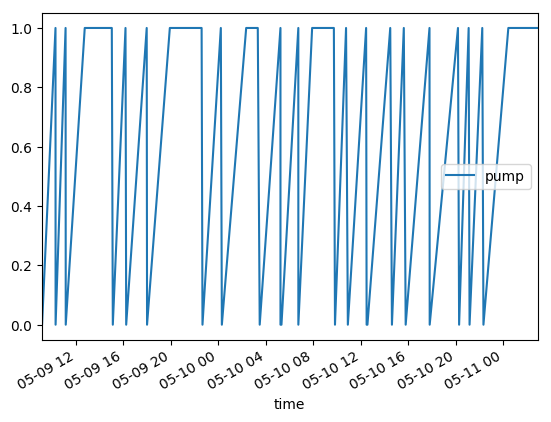
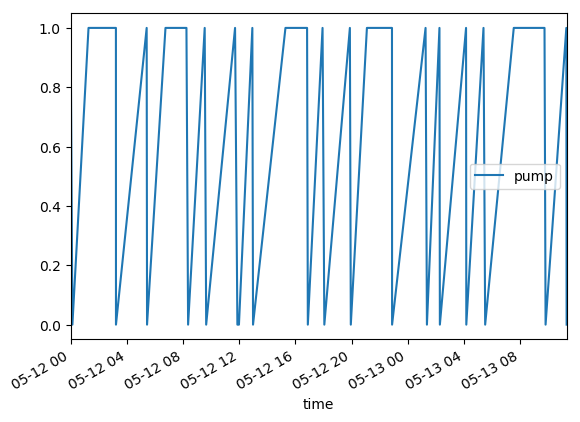
Cmd line args. Complete data saving/loading

Changed region(s): [[0.0, 0.0308, 0.9873, 0.9858], [0.1543, 0.8626, 0.1851, 0.8934]]

diff --git a/plot_pump.py b/plot_pump.py
@@ -1,7 +1,10 @@
 import numpy as np
 import pandas as pd
-import matplotlib.pyplot as plt
 import pump_watcher as pw
+import csv
+from numpy import genfromtxt
+from datetime import datetime
+import argparse
 
 
 def count_pump_on(data):
@@ -45,15 +48,26 @@ def get_all_on_off_durations(data):
     return durations
 
 
-if __name__ == "__main__":
-    data = pw.gen_random_samples(50)
-    np.savetxt("pump.csv", data, fmt=["%s", "%d", "%d"], delimiter=",", header="created_at,entry_id,field1")
+def build_graphs(filename, show_graphs=False):
+    """Generates graphs for pump data. Saves files as .PNG"""
+    print("Reading data from %s..." % filename)
+
+    str2date = lambda x: datetime.strptime(x.decode("utf-8"), "%Y-%m-%d %H:%M:%S UTC")
+    data = genfromtxt(filename, delimiter=",", dtype=None, names=True, converters={0: str2date})
+    print(data.dtype.names)
+
+    print("Generating graphs...")
+
+    import matplotlib
+    if not show_graphs:
+        matplotlib.use("Agg")  # allows figures to be generated on headless server
+    import matplotlib.pyplot as plt
 
     time, sample_id, event = zip(*data)  # * operator to unpack to positional args --> unzip
 
     # plot raw data
     df = pd.DataFrame({"time": time, "pump": event})
-    print(df)
+    #print(df)
     df.plot(x="time", y="pump")
     plt.savefig("fig_pump.png", bbox_inches='tight')
 
@@ -63,11 +77,11 @@ if __name__ == "__main__":
     mean = np.mean(durations)
     print("mean duration = ", mean)
     df = pd.DataFrame({"pump duration": durations})
-    print(df)
+    #print(df)
     df.plot(kind="bar")
     plt.savefig("fig_pump_durations.png", bbox_inches='tight')
 
-    std_dev = df.loc[:,"pump duration"].std()
+    std_dev = df.loc[:, "pump duration"].std()
     print("std dev = ", std_dev)
 
     # drop 1 std dev
@@ -75,7 +89,7 @@ if __name__ == "__main__":
     print("stripped stddev durations:", len(durations))
     print("mean duration = ", np.mean(durations))
     df = pd.DataFrame({"excl. 1 stddev pump duration": durations})
-    print(df)
+    #print(df)
     df.plot(kind="bar")
 
     # drop upper/lower percentiles
@@ -83,7 +97,28 @@ if __name__ == "__main__":
     print("stripped percentile durations:", len(durations))
     print("mean duration = ", np.mean(durations))
     df = pd.DataFrame({"excl. upper/lower percentile pump duration": durations})
-    print(df)
+    #print(df)
     df.plot(kind="bar")
 
     plt.show()
+
+
+if __name__ == "__main__":
+    # read command-line args
+    parser = argparse.ArgumentParser(description='Analyses data from ThinkSpeak.com and generates graphs.')
+    parser.add_argument('filename', help='file to process')
+    parser.add_argument('--show', dest='show', action='store_true', default=False,
+                        help='show graphs (as well as saving)')
+    parser.add_argument('--create', dest="create_data", action="store_true", default=False, help="create test data")
+    args = parser.parse_args()
+
+    if args.create_data:
+        print("Creating test data...")
+        data = pw.gen_random_samples(40)
+        with open("pump.csv", "w", newline='') as f:
+            writer = csv.writer(f)
+            header=[["created_at", "entry_id", "field1"]]
+            writer.writerows(header)
+            writer.writerows(data)
+
+    build_graphs(args.filename, args.show)

diff --git a/pump_watcher.py b/pump_watcher.py
@@ -52,7 +52,7 @@ def gen_random_samples(length):
     Generate random sample data for the pump. Simulate occasional lost readings.
 
     :param length: number of entries to generate
-    :return tuple of the form (timestamp, sample_id, 0/1)
+    :return list of lists of the form [[timestamp, sample_id, 0/1]...]
     """
     data = []
 
@@ -64,21 +64,22 @@ def gen_random_samples(length):
         event = gen_mainly_on()
         if (event == PUMP_ON):
             # timestamp is assumed to be at least 45 mins since last PUMP_OFF + random(100 minutes)
-            ts += datetime.timedelta(0, 45 * 60)
-            ts += datetime.timedelta(0, random.randint(0, 100 * 60))
-            data.append((ts, sample_id, event))
+            ts += datetime.timedelta(0, 45 * 60) + datetime.timedelta(0, random.randint(0, 100 * 60))
+            data.append([ts.strftime("%Y-%m-%d %H:%M:%S UTC"), sample_id, event])
             sample_id += 1
         else:
-            print("missed pump PUMP_ON")
+            #print("missed pump PUMP_ON")
+            pass
 
         event = gen_mainly_off()
         if (event == PUMP_OFF):
             # pump is assumed to be on for random(10 minutes)
             ts = ts + datetime.timedelta(0, random.randint(0, 10 * 60))
-            data.append((ts, sample_id, event))
+            data.append((ts.strftime("%Y-%m-%d %H:%M:%S UTC"), sample_id, event))
             sample_id += 1
         else:
-            print("missed pump PUMP_OFF")
+            #print("missed pump PUMP_OFF")
+            pass
 
     # events are potentially appended in pairs, meaning we may exceed the requested length
     return data[:length]
